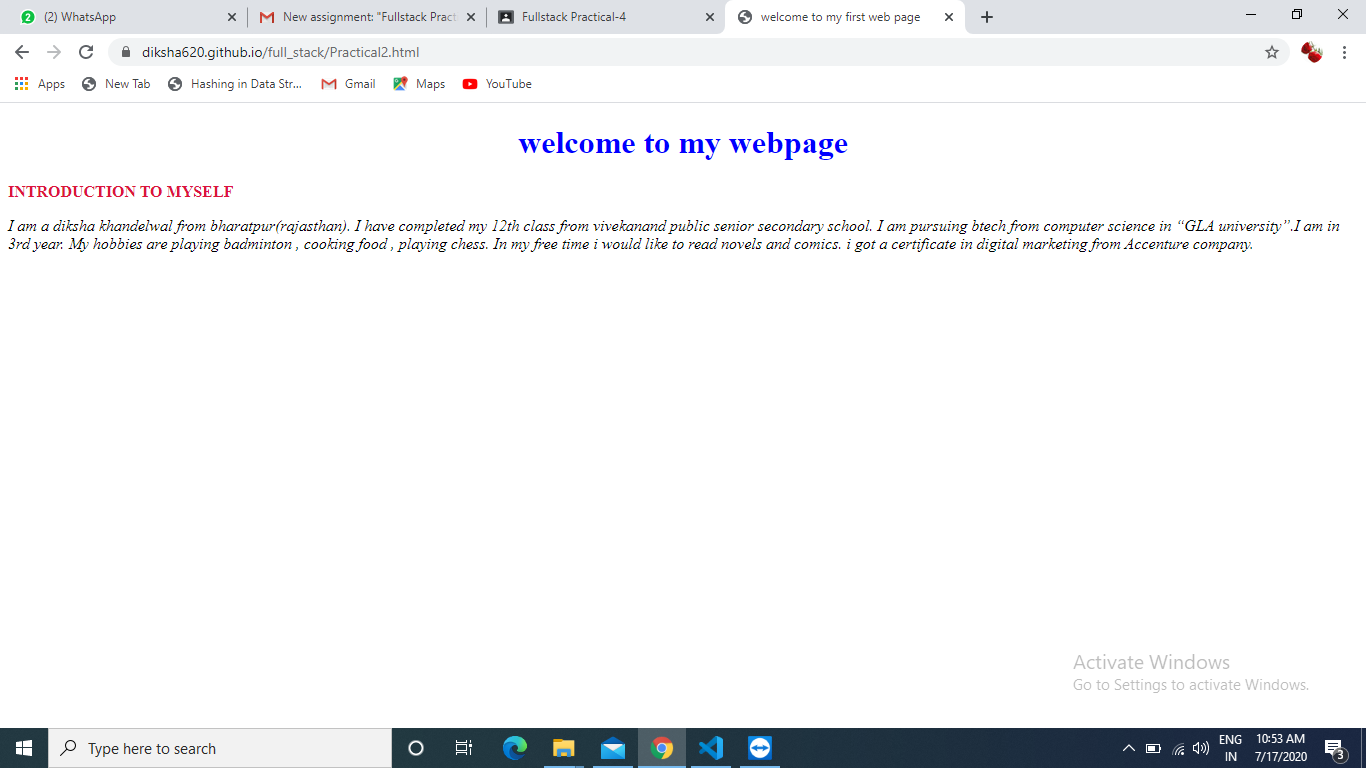
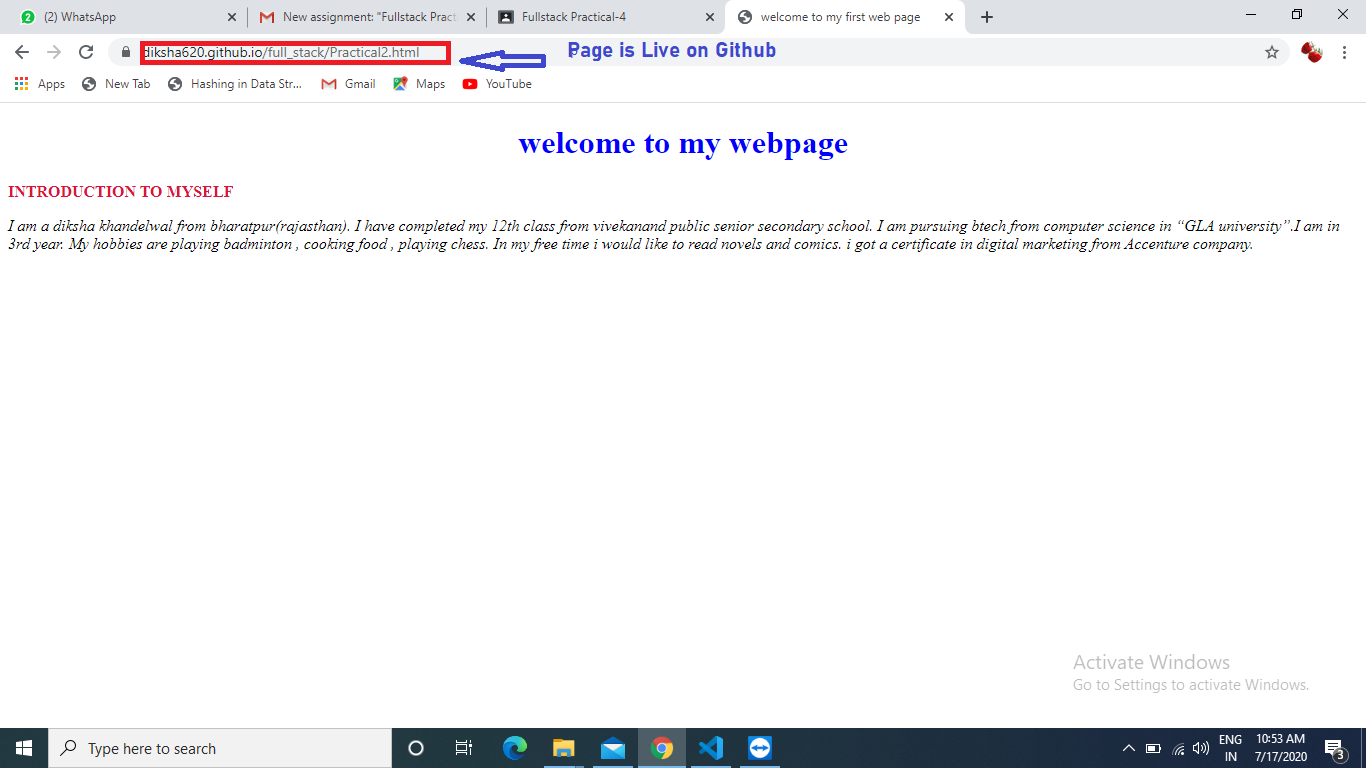
practical2

Changed region(s): [[0.0922, 0.0312, 0.5842, 0.0938]]

diff --git a/Practical2.html b/Practical2.html
@@ -1,0 +1,25 @@
+<!DOCTYPE html>
+<html lang="en">
+<head>
+    <meta charset="UTF-8">
+    <meta name="viewport" content="width=device-width, initial-scale=1.0">
+    <title>Practical2</title>
+</head>
+<body>
+    <h2 style="color: red;">Practical-2: Live your First Web-Page on Git-Hub.</h2>
+    <h1 style="color:black;">Welcome to Fullstack Course</h1>
+    <h2>About Course</h2>
+    Front-end web development is everything involving in programming 
+    the user interface of a web application.
+     Typically it refers to the HyperText Markup Language(HTML), Cascading 
+     Style Sheets(CSS) and JavaScript portion of website 
+     production as opposed to the database or server-side programming. 
+     It encompasses everything from building a simple page of HTML text to creating complex, responsive 
+     HTML5 websites designed to be accessed via various different browsers,
+     devices and screen sizes.
+
+     <h2 style="color:black;">Output</h2>
+     <h3 style="text-align: center; width: 70%;">Live Page on GitHub</h3>
+     <img src="img/Screenshot (12).png" alt="Practical2" style="width: 70%;" title="Live page">
+</body>
+</html>
